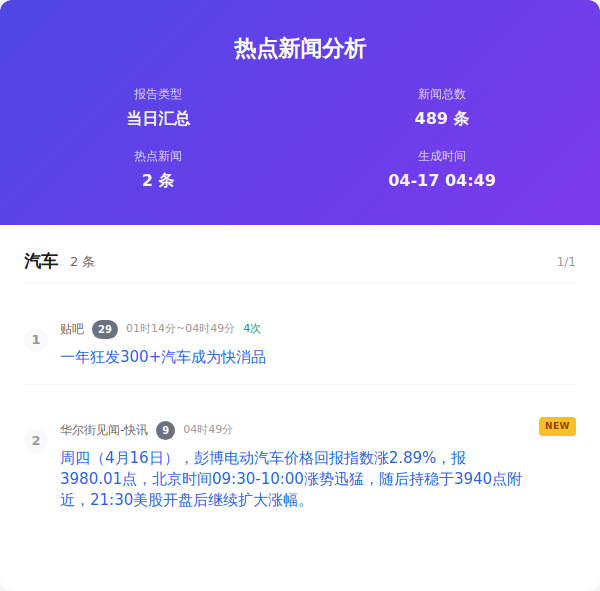
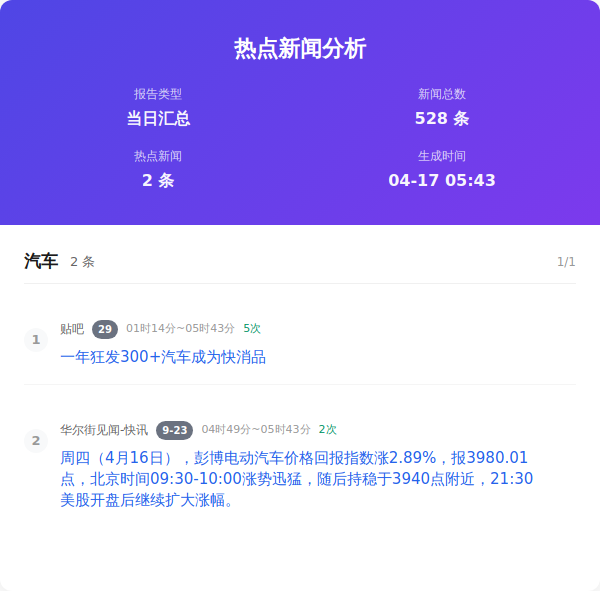
Auto update by GitHub Actions at Fri Apr 17 05:43:24 CST 2026

diff --git a/output/2026年04月17日/html/当日汇总.html b/output/2026年04月17日/html/当日汇总.html
@@ -357,7 +357,7 @@
                     </div>
                     <div class="info-item">
                         <span class="info-label">新闻总数</span>
-                        <span class="info-value">489 条</span>
+                        <span class="info-value">528 条</span>
                     </div>
                     <div class="info-item">
                         <span class="info-label">热点新闻</span>
@@ -365,7 +365,7 @@
                     </div>
                     <div class="info-item">
                         <span class="info-label">生成时间</span>
-                        <span class="info-value">04-17 04:49</span>
+                        <span class="info-value">04-17 05:43</span>
                     </div>
                 </div>
             </div>
@@ -383,17 +383,17 @@
                         <div class="news-number">1</div>
                         <div class="news-content">
                             <div class="news-header">
-                                <span class="source-name">贴吧</span><span class="rank-num ">29</span><span class="time-info">01时14分~04时49分</span><span class="count-info">4次</span>
+                                <span class="source-name">贴吧</span><span class="rank-num ">29</span><span class="time-info">01时14分~05时43分</span><span class="count-info">5次</span>
                             </div>
                             <div class="news-title"><a href="https://tieba.baidu.com/hottopic/browse/hottopic?topic_id=28353283&amp;amp;topic_name=%E4%B8%80%E5%B9%B4%E7%8B%82%E5%8F%91300%2B%E6%B1%BD%E8%BD%A6%E6%88%90%E4%B8%BA%E5%BF%AB%E6%B6%88%E5%93%81" target="_blank" class="news-link">一年狂发300+汽车成为快消品</a>
                             </div>
                         </div>
                     </div>
-                    <div class="news-item new">
+                    <div class="news-item ">
                         <div class="news-number">2</div>
                         <div class="news-content">
                             <div class="news-header">
-                                <span class="source-name">华尔街见闻-快讯</span><span class="rank-num ">9</span><span class="time-info">04时49分</span>
+                                <span class="source-name">华尔街见闻-快讯</span><span class="rank-num ">9-23</span><span class="time-info">04时49分~05时43分</span><span class="count-info">2次</span>
                             </div>
                             <div class="news-title"><a href="https://wallstreetcn.com/livenews/3089568" target="_blank" class="news-link">周四（4月16日），彭博电动汽车价格回报指数涨2.89%，报3980.01点，北京时间09:30-10:00涨势迅猛，随后持稳于3940点附近，21:30美股开盘后继续扩大涨幅。</a>
                             </div>

diff --git a/output/2026年04月17日/html/当前榜单汇总.html b/output/2026年04月17日/html/当前榜单汇总.html
@@ -365,7 +365,7 @@
                     </div>
                     <div class="info-item">
                         <span class="info-label">生成时间</span>
-                        <span class="info-value">04-17 04:49</span>
+                        <span class="info-value">04-17 05:43</span>
                     </div>
                 </div>
             </div>
@@ -383,7 +383,7 @@
                         <div class="news-number">1</div>
                         <div class="news-content">
                             <div class="news-header">
-                                <span class="source-name">贴吧</span><span class="rank-num ">29</span><span class="time-info">01时14分~04时49分</span><span class="count-info">4次</span>
+                                <span class="source-name">贴吧</span><span class="rank-num ">29</span><span class="time-info">01时14分~05时43分</span><span class="count-info">5次</span>
                             </div>
                             <div class="news-title"><a href="https://tieba.baidu.com/hottopic/browse/hottopic?topic_id=28353283&amp;amp;topic_name=%E4%B8%80%E5%B9%B4%E7%8B%82%E5%8F%91300%2B%E6%B1%BD%E8%BD%A6%E6%88%90%E4%B8%BA%E5%BF%AB%E6%B6%88%E5%93%81" target="_blank" class="news-link">一年狂发300+汽车成为快消品</a>
                             </div>